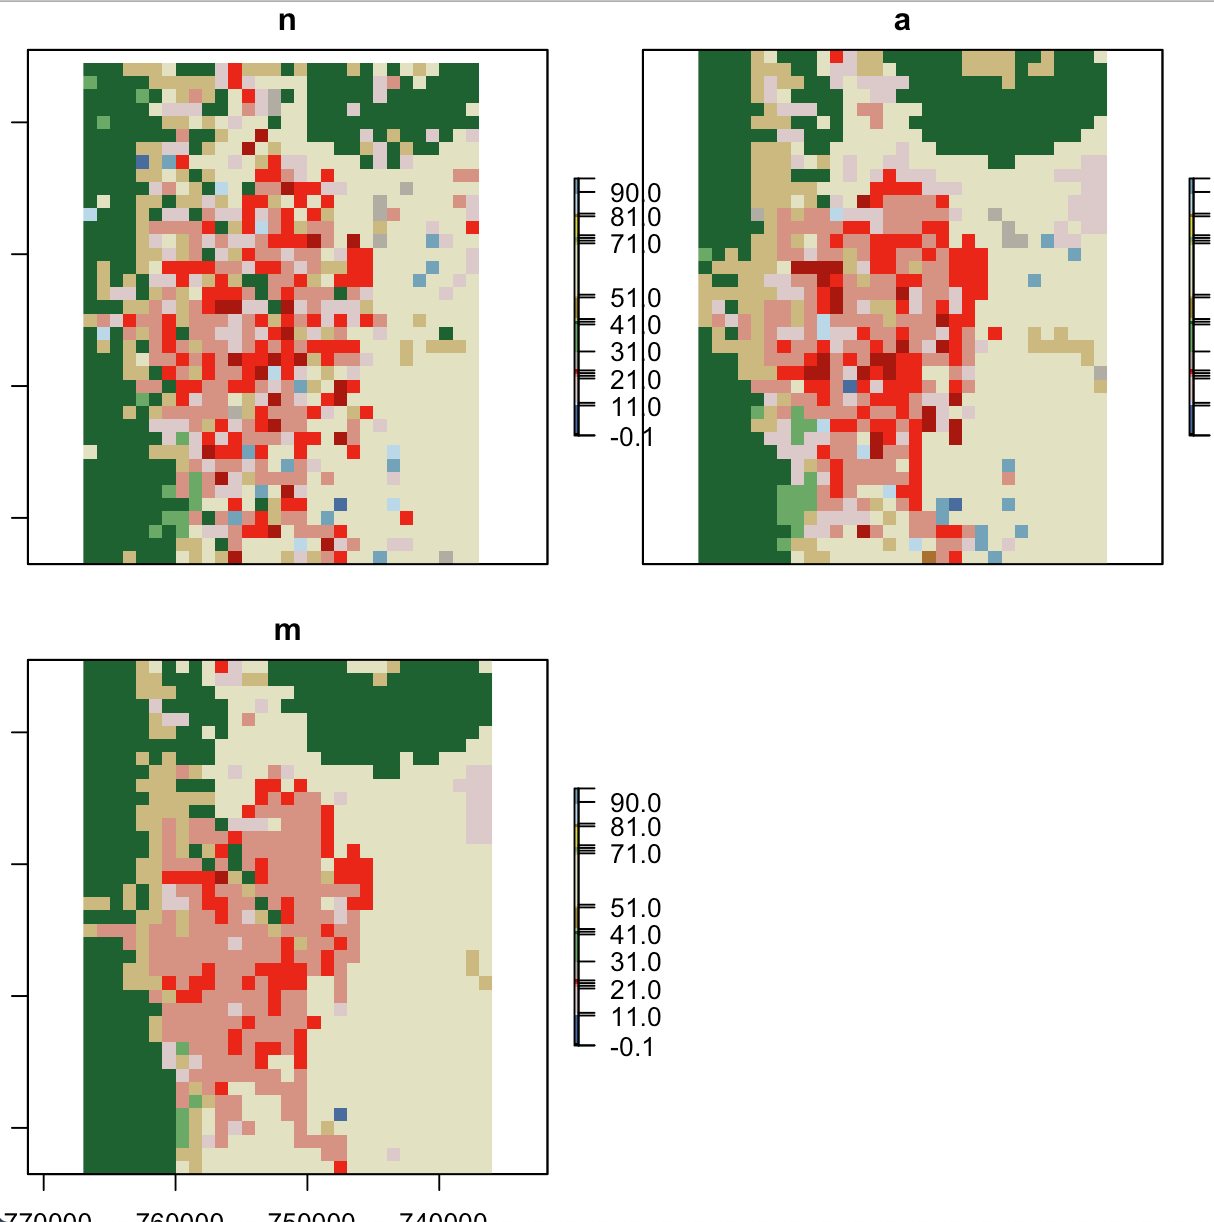
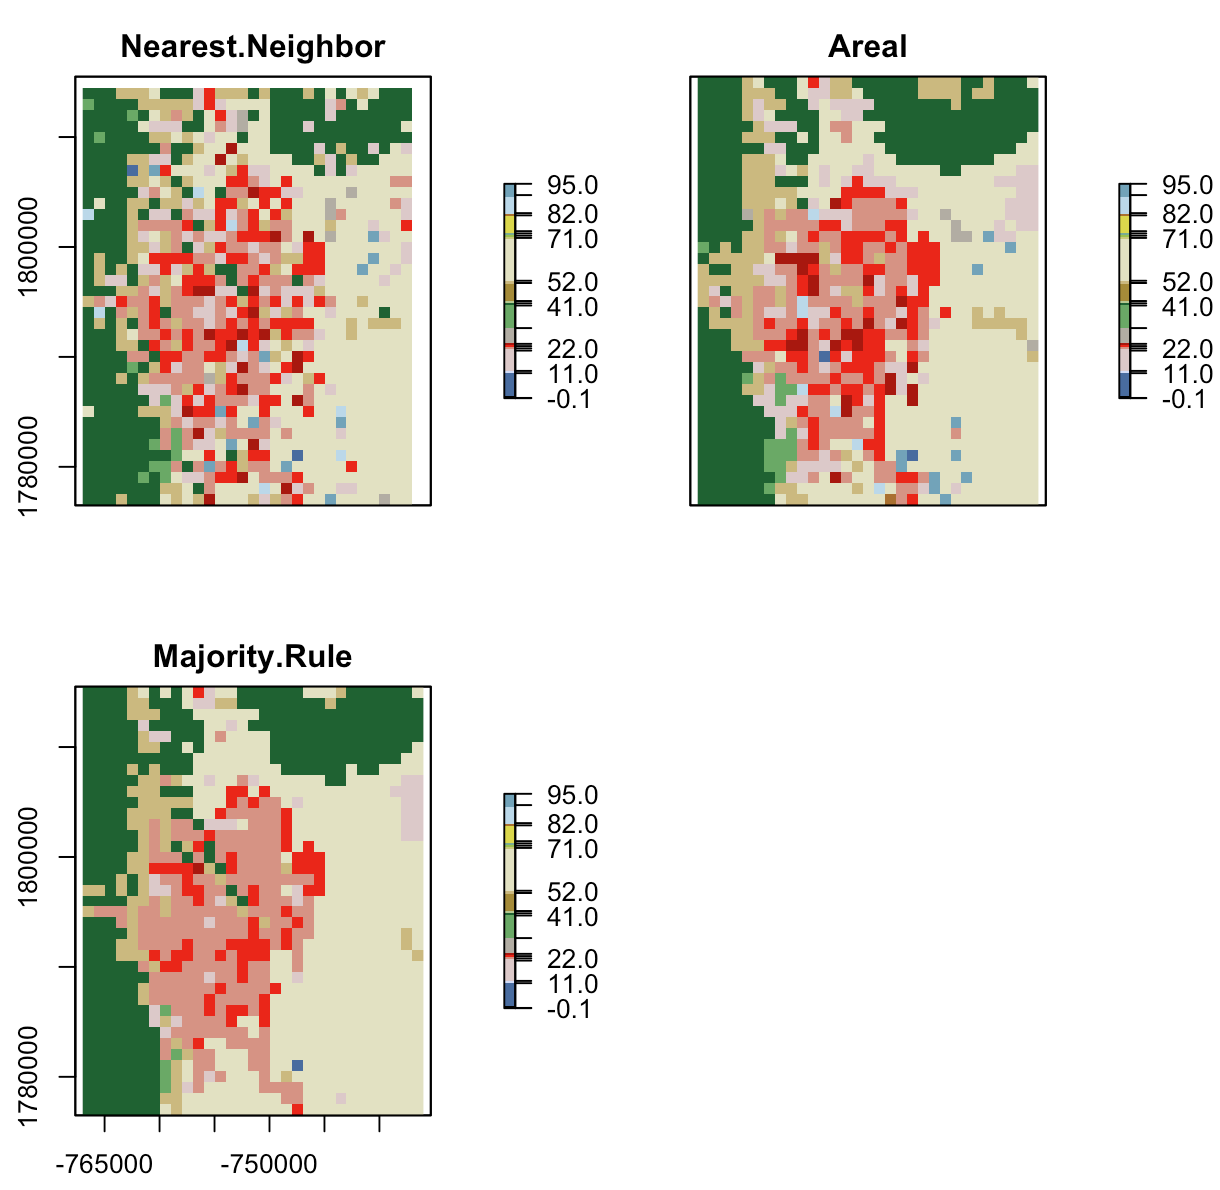
modify README

diff --git a/README.md b/README.md
@@ -18,7 +18,7 @@ n = resampleData(input, output, 0, method = 'nn')
 a = resampleData(input, output, 0, method = 'area')
 m = resampleData(input, output, 0, method = 'maj')
 
-b = brick(n,a,m) %>% setNames(c("n", "a", "m"))
+b = brick(n,a,m) %>% setNames(c("Nearest Neighbor", "Areal", "Majority Rule"))
 
 plot(b, breaks = col_lu$nlcd.code, col = col_lu$color)
 
